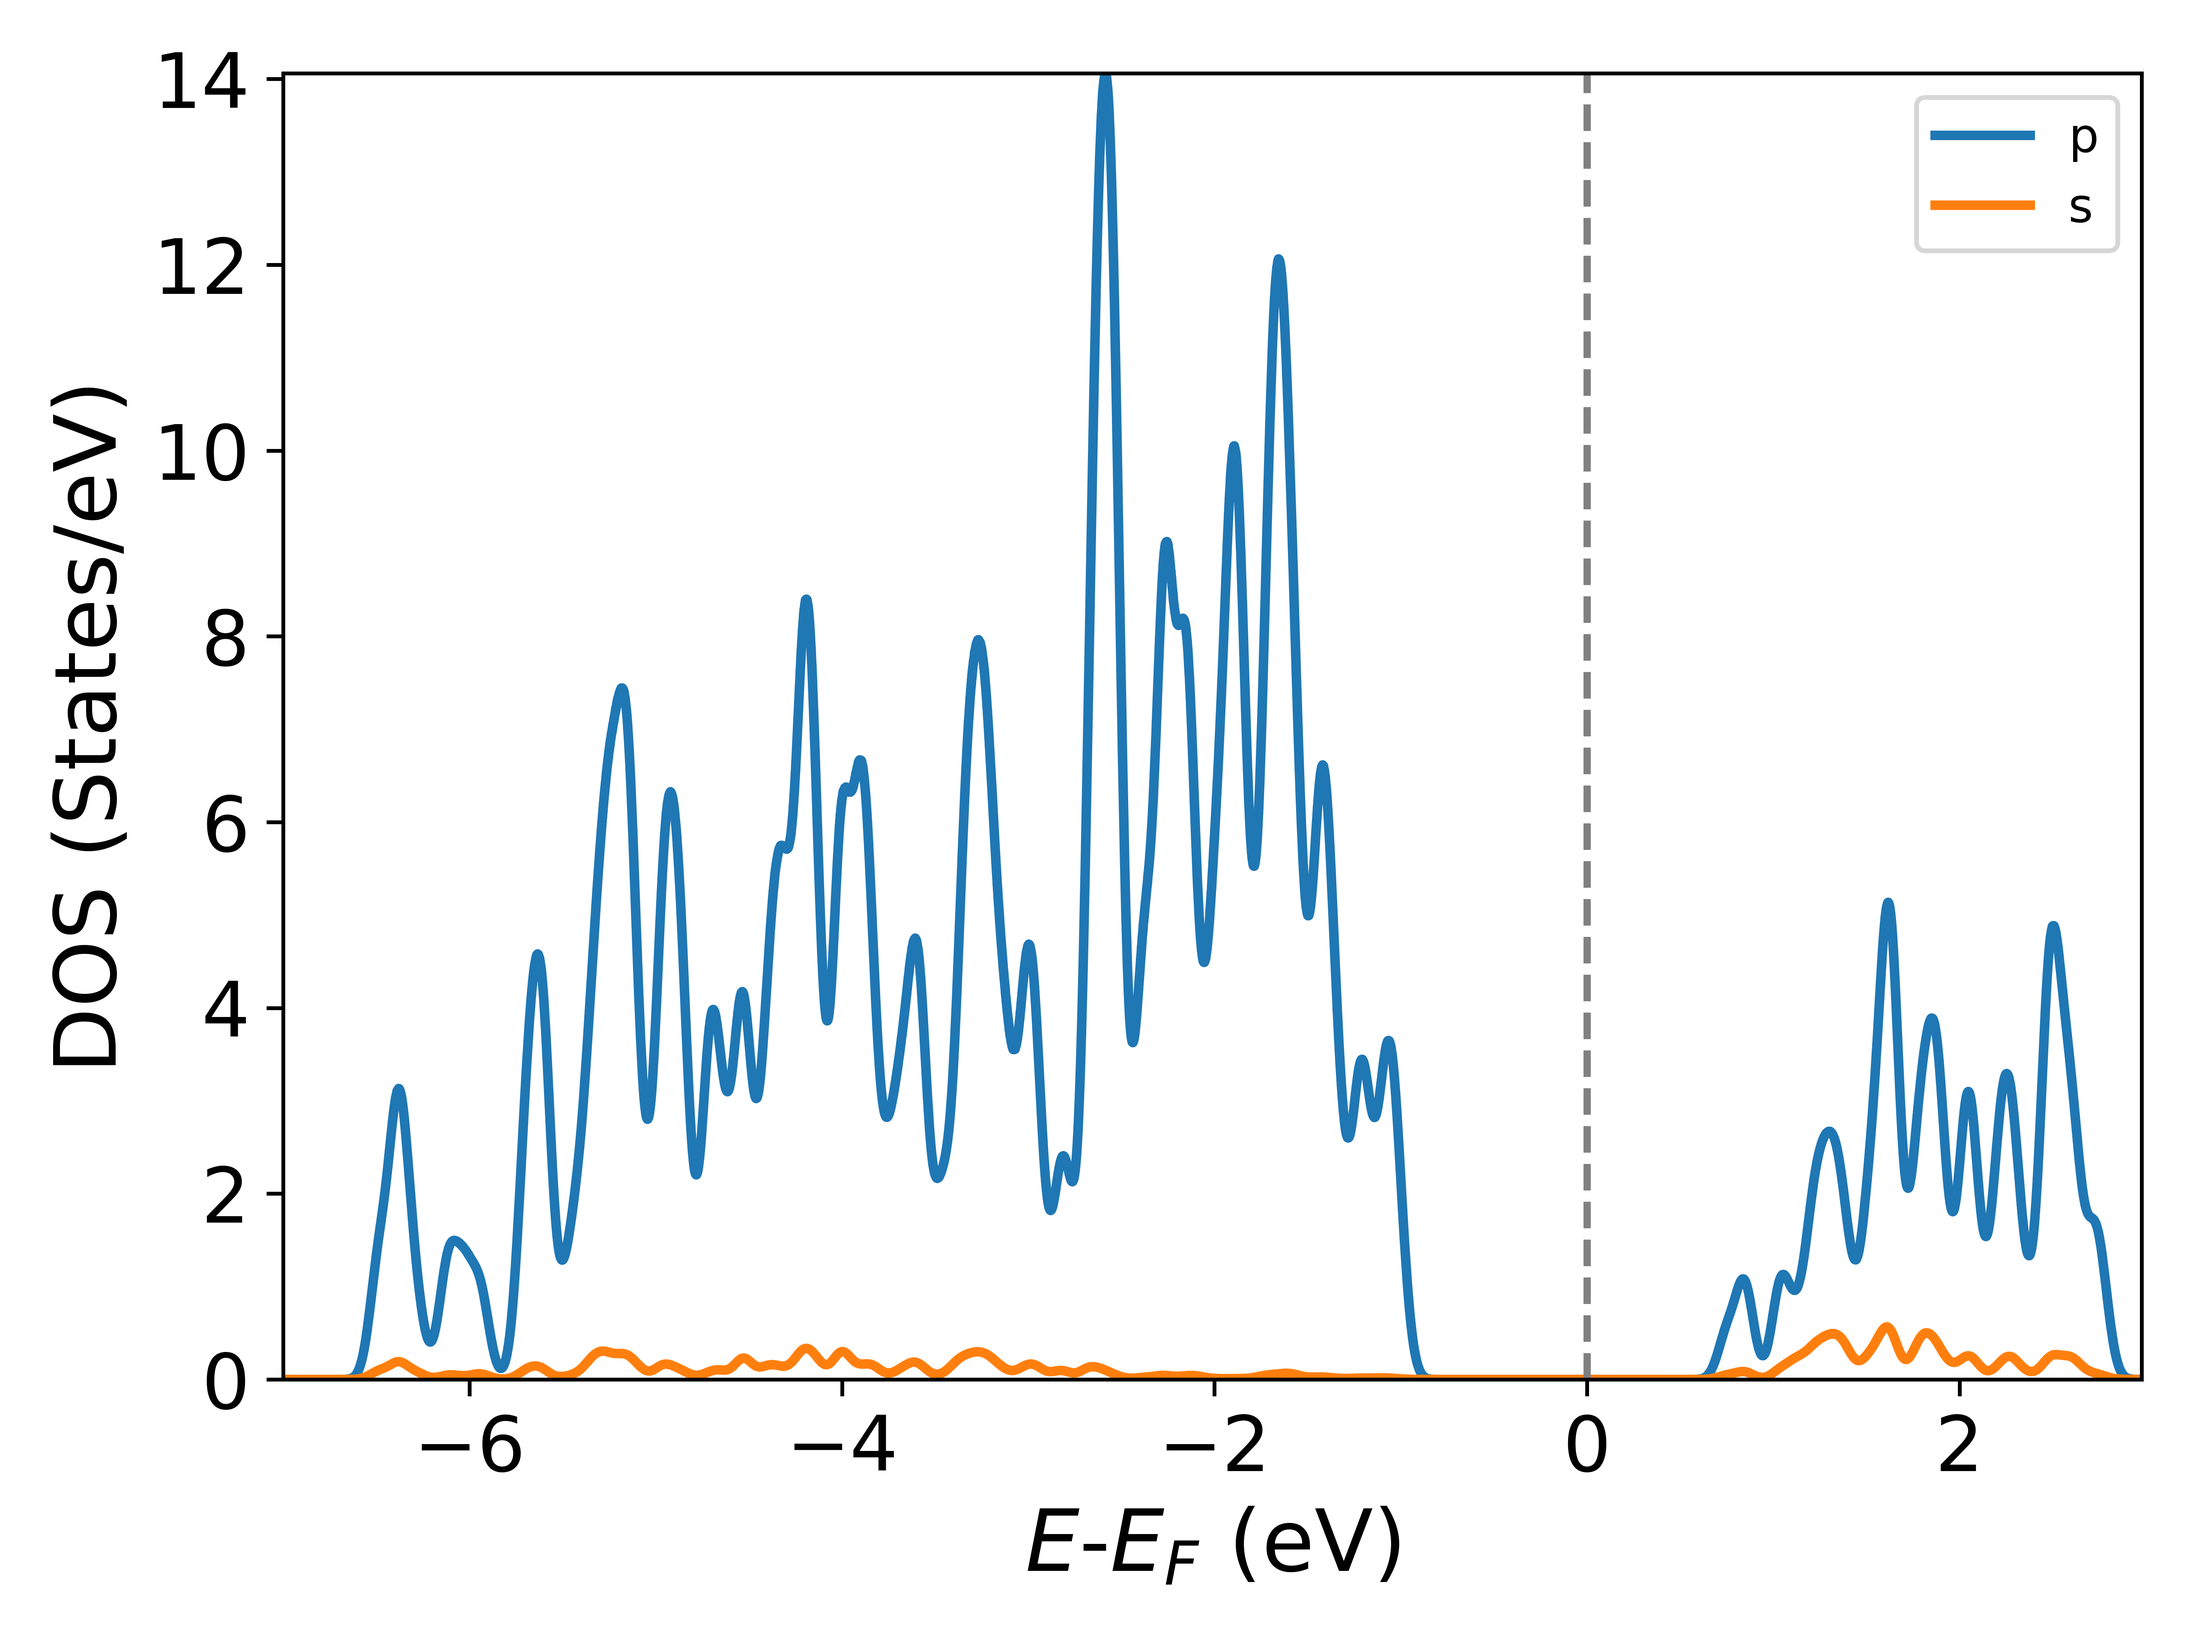
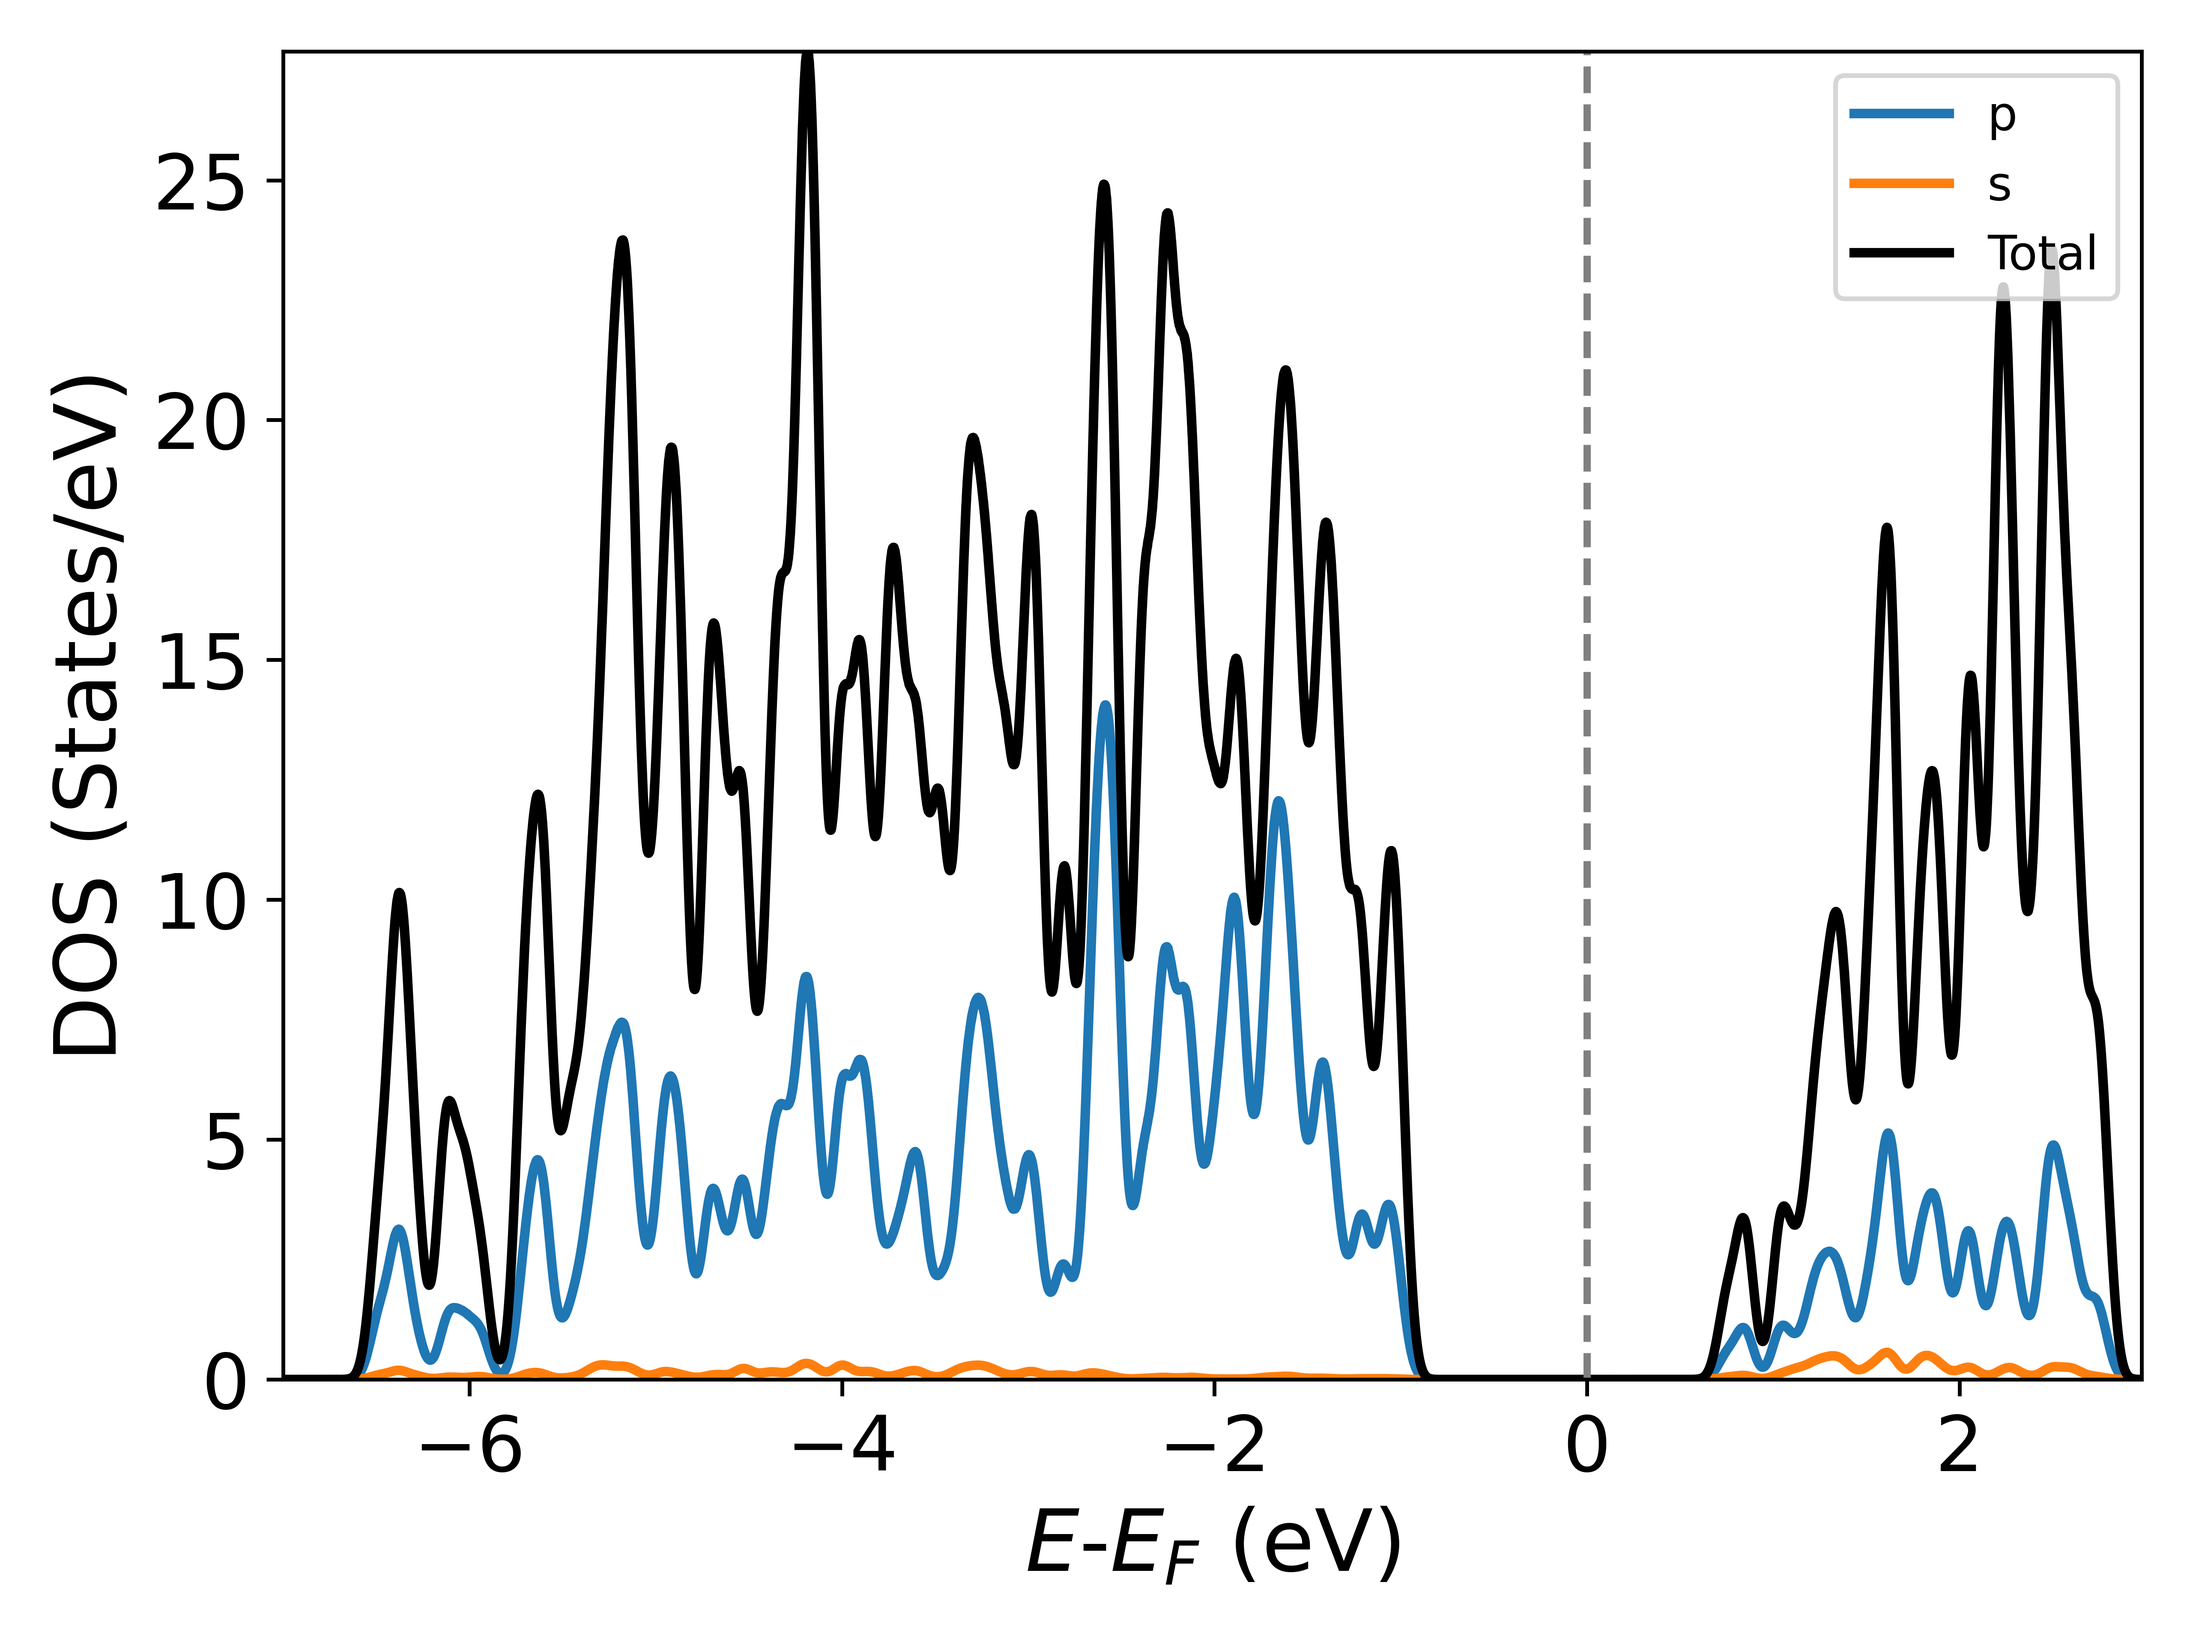
correction in total graph plot

diff --git a/new_test/main.py b/new_test/main.py
@@ -42,8 +42,8 @@ if choice == 'by atoms':
             #Salva o nome dos arquivos que deram match com o padrão em um vetor
             if re.findall(pattern, src.files_directory(path_folder)[2][i]):
                 match.append(src.files_directory(path_folder)[2][i])
-        print(match)
-        print()
+        #print(match)
+        #print()
 
         #ldosS = [0] * len(ldos)
         lS=[]
@@ -83,12 +83,6 @@ if choice == 'by orbital':
 
     for i in range(len(spdf)):
 
-        if spdf[i] == 'total':
-            TOT = True
-        else:
-            TOT = False
-
-
         pattern_spdf = rf'\({spdf[i]}\)'
         ldosS=0
         for j in range(len(atoms)):
@@ -112,12 +106,15 @@ if choice == 'by orbital':
             
 
             ltot = ltot + ldosS
-                
-        Es=Es-Efermi
-        gh.graph_s(Es, ldosS, spdf[i], False)
+        
+        #plota o gráfico para os orbitais
+        if spdf[i] != 'total':
+            Ess=Es-Efermi
+            gh.graph_s(Ess, ldosS, spdf[i], False)
 
-    if TOT == True:
-        gh.graph_s(Es, ltot, None, True)
+    #plota o gráfico para a contribuição total
+    if 'total' in spdf:
+        gh.graph_s(Ess, ltot, None, True)
     
     #Salva o gráfico
     plt.tight_layout()
